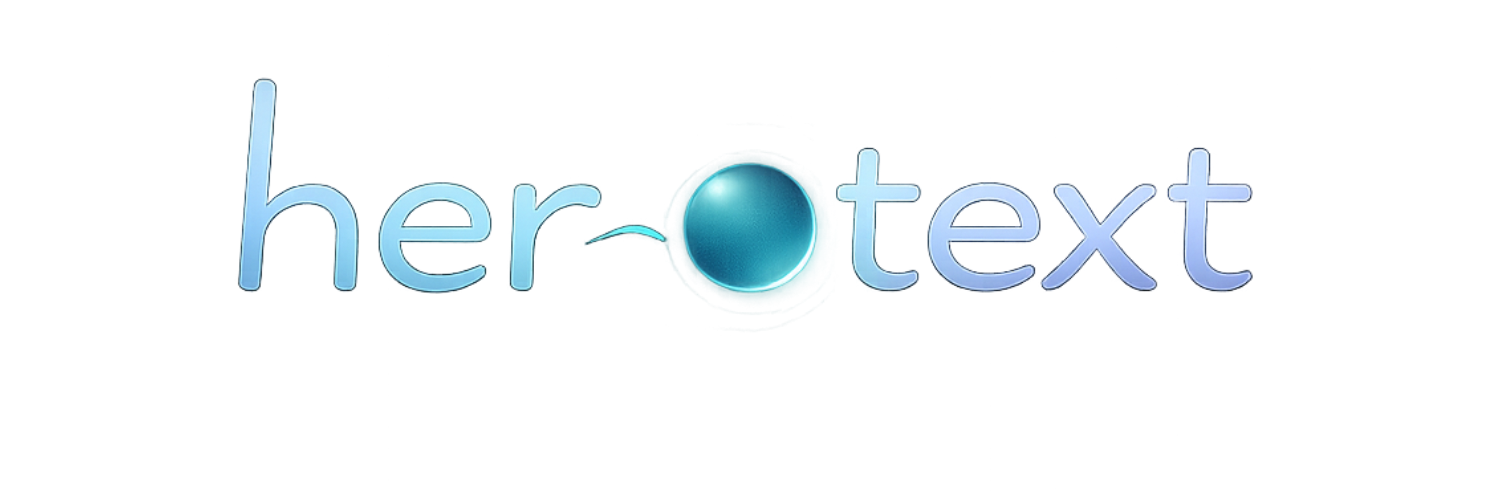
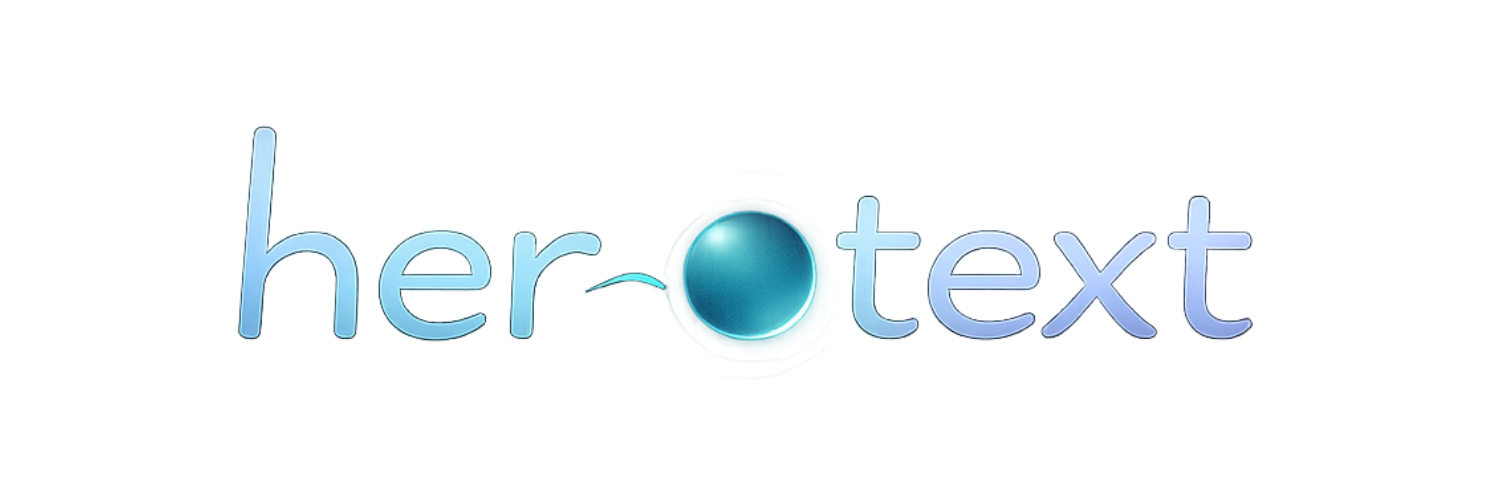
Revise README.md for Enhanced Clarity and Project Vision
- Updated the project description to emphasize Her-Text as a desktop AI companion focused on voice interaction and emotional engagement.
- Expanded the overview to highlight the project's goals of creating a conversational AI that can accompany and assist users.
- Removed outdated sections and streamlined the features list for better readability and focus on core functionalities.
- Updated the banner image to reflect the new project vision.

Changed region(s): [[0.1533, 0.15, 0.8587, 0.69]]

diff --git a/README.md b/README.md
@@ -3,8 +3,14 @@
 </p>
 
 <p align="center">
-  <strong>A desktop agent companion with voice, memory, personality, and runtime tools.</strong>
+  <strong>Putting a living soul into the desktop.</strong>
 </p>
+
+<p align="center">
+  Voice, memory, emotion, personality, and tools —
+  an experiment toward AI that can talk, accompany, and act beside us.
+</p>
+
 
 <p align="center">
   <a href="#features">Features</a>
@@ -20,10 +26,9 @@
 
 ---
 
-Her-Text is an experimental desktop AI companion. It combines a conversational
-emotional layer with a task runtime, voice input/output, persistent memory,
-personality profiles, and pluggable tools for browser, desktop, shell, file, MCP,
-and skill-based workflows.
+Her-Text is a small experiment toward something like JARVIS: a desktop companion
+that can speak with personality, remember context, understand tasks, and act
+through tools.
 
 The project is built around a simple split:
 
@@ -32,9 +37,6 @@ The project is built around a simple split:
 - **Voice pipeline**: streams ASR, VAD, turn detection, TTS, interruption, and playback frames.
 - **Plugin system**: adds tools, prompt extensions, task context, text transforms, expressions, and admin actions.
 
-> Her-Text is under active development. APIs, runtime behavior, and plugin
-> contracts may still change.
-
 ## Features
 
 - **Voice-first desktop conversation** with streaming ASR, VAD, smart turn detection, and Fish Audio TTS.
@@ -42,9 +44,7 @@ The project is built around a simple split:
 - **Task execution runtime** with planning, tool calls, execution state, compaction, and task admission.
 - **Interruption-aware audio path** that can stop speech output without necessarily cancelling active tasks.
 - **Persistent memory** backed by SQLite for conversation turns, summaries, user profile, and task runs.
-- **Runtime plugin system** for tools, context injection, prompt additions, expression selection, and admin actions.
-- **Browser and computer-use tools** for web automation, screenshots, keyboard/mouse control, and UI observation.
-- **Skills and MCP support** through dedicated runtime plugins.
+- **Extensible plugin system** for adding new runtime capabilities without changing the core.
 
 ## Architecture
 
@@ -75,16 +75,6 @@ Final task result
       ▼
 task_result emotional layer ─────────► TTS / display
 ```
-
-### Packages
-
-| Path | Role |
-| --- | --- |
-| `apps/desktop` | Electron desktop app, renderer UI, main-process orchestration, IPC, voice lifecycle |
-| `packages/sdk` | Dialogue, task runtime, memory, personality, audio, VAD, tools, plugins |
-| `packages/core` | OpenAI-compatible LLM provider and shared core utilities |
-| `packages/types` | Shared TypeScript contracts |
-| `plugins` | Runtime plugins for tools, browser control, computer use, MCP, skills, expressions, and TTS cues |
 
 ## Quick Start
 
@@ -220,29 +210,6 @@ The voice path is frame-based and interruption-aware:
 Application-level echo suppression is still evolving. Browser-level AEC is
 enabled, but robust filtering of TTS audio leaking back into ASR is an area for
 future improvement.
-
-## Project Structure
-
-```text
-her-text/
-├── apps/
-│   └── desktop/          # Electron desktop app
-├── packages/
-│   ├── core/             # LLM provider and core utilities
-│   ├── sdk/              # Dialogue, task, audio, memory, plugins
-│   └── types/            # Shared TypeScript types
-├── plugins/              # Runtime SDK plugins
-├── role/                 # Personality profiles
-├── models/               # Local ONNX model files
-├── scripts/              # Maintenance and model download scripts
-└── assets/               # README and project visual assets
-```
-
-## Status
-
-Her-Text is currently a private, fast-moving desktop agent experiment. The core
-runtime is usable, but the project still prioritizes iteration over API
-stability.
 
 ## License
 
